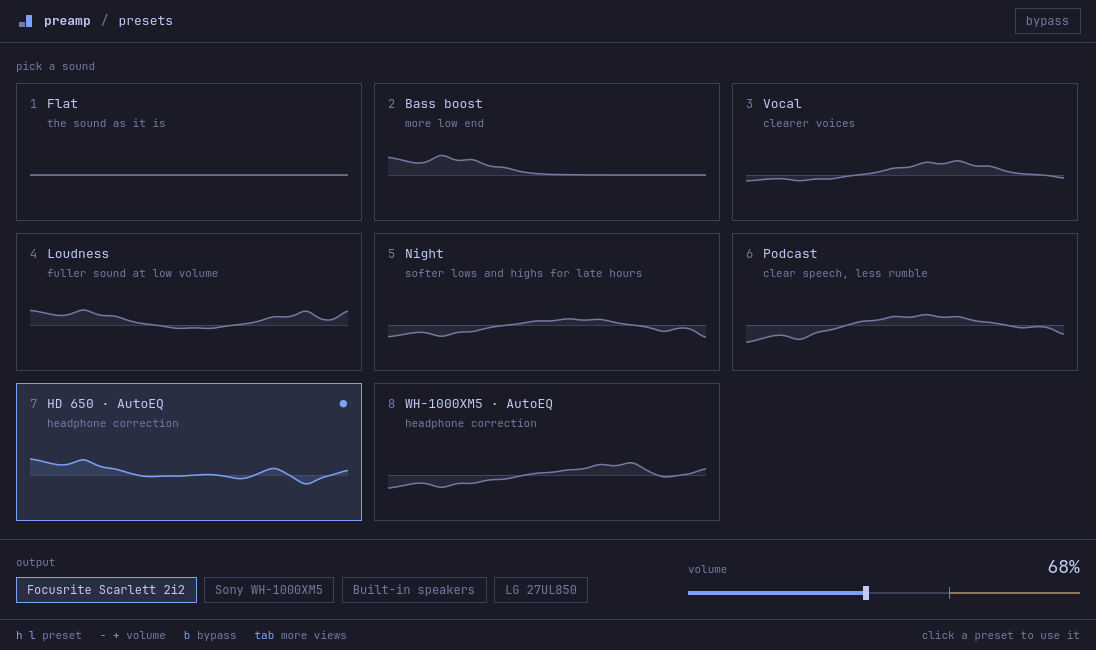
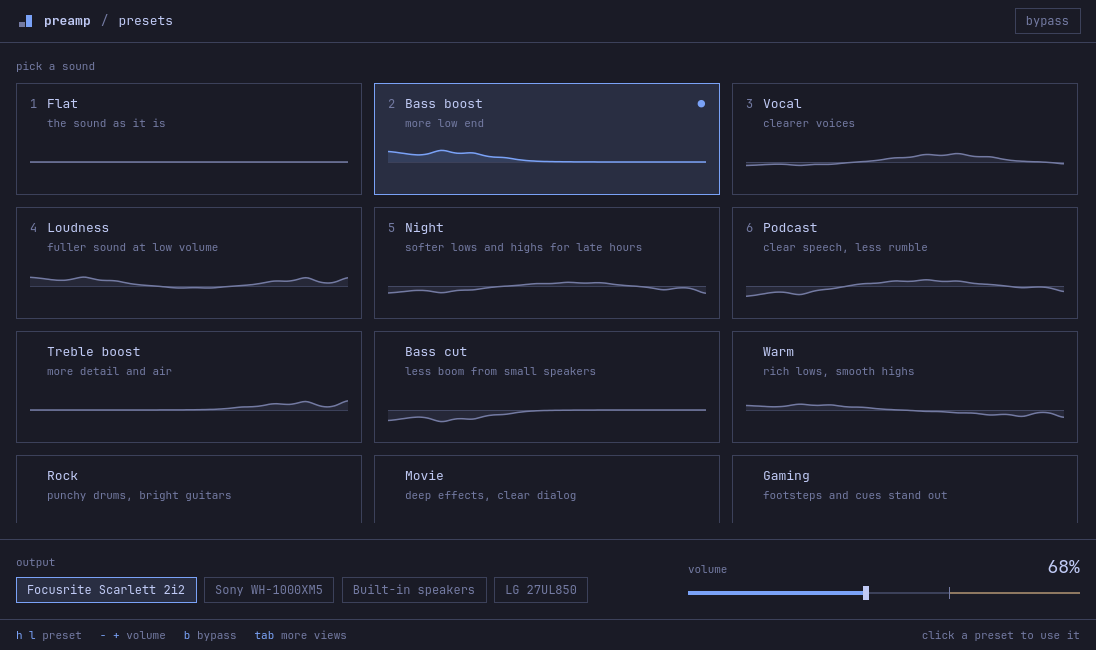
Add six presets: Treble boost, Bass cut, Warm, Rock, Movie and Gaming

diff --git a/src/qml/PresetsView.qml b/src/qml/PresetsView.qml
@@ -30,6 +30,18 @@ Item {
                 return qsTr("softer lows and highs for late hours")
             case "Podcast":
                 return qsTr("clear speech, less rumble")
+            case "Treble boost":
+                return qsTr("more detail and air")
+            case "Bass cut":
+                return qsTr("less boom from small speakers")
+            case "Warm":
+                return qsTr("rich lows, smooth highs")
+            case "Rock":
+                return qsTr("punchy drums, bright guitars")
+            case "Movie":
+                return qsTr("deep effects, clear dialog")
+            case "Gaming":
+                return qsTr("footsteps and cues stand out")
             }
         }
         return p.kind === "autoeq" ? qsTr("headphone correction") : qsTr("your own preset")

diff --git a/src/daemon.cpp b/src/daemon.cpp
@@ -332,11 +332,11 @@ const Daemon::Preset *Daemon::findPreset(const QString &name) const {
     return nullptr;
 }
 
-// Keys 1 to 8: the built-in presets, then the most recent headphone
-// profiles and saved presets.
+// Keys 1 to 8: the everyday presets, then the most recent other presets,
+// headphone profiles and saved presets.
 QStringList Daemon::presetSlots() const {
     QStringList out;
-    for (const eq::Preset &p : eq::builtins())
+    for (const eq::Preset &p : eq::builtins().mid(0, eq::EverydayPresets))
         out << p.name;
     for (const QString &name : m_recent) {
         if (out.size() >= 8)
@@ -348,7 +348,7 @@ QStringList Daemon::presetSlots() const {
 }
 
 void Daemon::remember(const QString &name) {
-    for (const eq::Preset &p : eq::builtins())
+    for (const eq::Preset &p : eq::builtins().mid(0, eq::EverydayPresets))
         if (p.name == name)
             return;
     m_recent.removeAll(name);

diff --git a/src/eq.cpp b/src/eq.cpp
@@ -213,6 +213,12 @@ QVector<Preset> builtins() {
         preset("Loudness", {5, 4, 2, 0, -1, -1, 0, 2, 4, 4.5}),
         preset("Night", {-4, -3, -1.5, 0, 1, 1.5, 1.5, 0, -2, -4}),
         preset("Podcast", {-6, -4, -1, 1, 2, 2.5, 2, 0.5, -1, -3}),
+        preset("Treble boost", {0, 0, 0, 0, 0, 0, 1, 2.5, 4, 5}),
+        preset("Bass cut", {-6, -5, -3.5, -1.5, 0, 0, 0, 0, 0, 0}),
+        preset("Warm", {2.5, 2.5, 2, 1, 0, -0.5, -1, -2, -3, -4}),
+        preset("Rock", {4, 3, 1.5, 0, -1, -0.5, 1, 2.5, 3, 2.5}),
+        preset("Movie", {4, 3.5, 2, 0.5, 0, 1, 2.5, 2, 1, 0}),
+        preset("Gaming", {-2, -1, 0, -1, -1, 0.5, 2.5, 4, 3, 1}),
     };
 }
 

diff --git a/src/eq.h b/src/eq.h
@@ -70,7 +70,10 @@ struct Preset {
     Bands right;
 };
 
+// The everyday presets come first and keep keys 1 to 6. The others get a
+// key only when they are among the presets used most recently.
 QVector<Preset> builtins();
+constexpr int EverydayPresets = 6;
 
 // Parses AutoEQ's "ParametricEQ.txt" into ten bands sorted by frequency.
 // Returns an empty list when the text holds no usable filter.

diff --git a/README.md b/README.md
@@ -64,7 +64,7 @@ You can also open preamp from the app launcher.
 
 The presets view is the everyday view. It shows one card for each preset with the shape of its curve, and the output and volume below the cards. Click a card or press its number to use the preset.
 
-![The presets view: six preset cards with their curves, the output and the volume](docs/presets.png)
+![The presets view: one card for each preset with its curve, the output and the volume](docs/presets.png)
 
 Press `tab` to go to the next view. Studio, Modes and Signal chain have the detailed controls. The window opens on the view you used last.
 
@@ -75,7 +75,7 @@ Press `tab` to go to the next view. Studio, Modes and Signal chain have the deta
 
 ## Bar widget
 
-The widget shows the preset in use. Click it for the popover. Right-click it to bypass the equalizer. Scroll on it to change the volume.
+The widget is the preamp mark in the bar color. The tall block dims while the equalizer is off. Click it for the popover. Right-click it to bypass the equalizer. Scroll on it to change the volume.
 
 | Full popover | Quick popover |
 |---|---|
